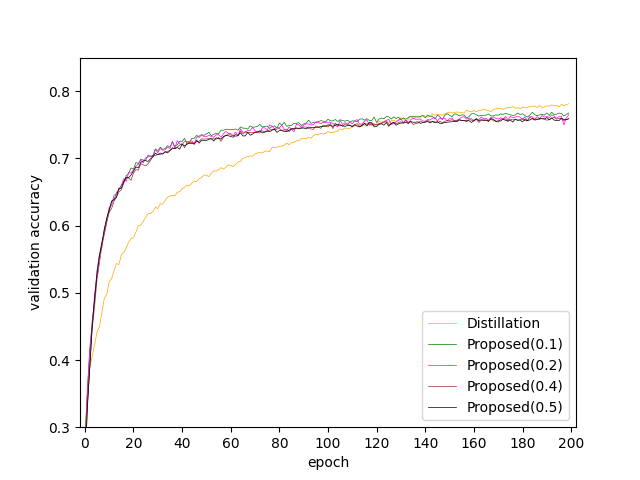
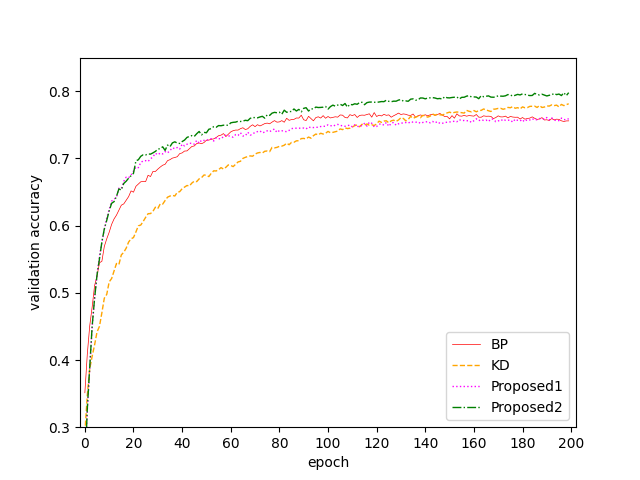
Experiment

diff --git a/result.py b/result.py
@@ -4,8 +4,8 @@ import matplotlib.pyplot as plt
 import torch
 
 def main():           
-    epochs = 200
-    model_type = 'normal'
+    epochs = 150
+    model_type = 'resnet'
     
     # setting iteration
     if model_type == 'resnet':
@@ -21,14 +21,14 @@ def main():
             cam10_iter   = 1
         elif epochs == 150: # これ
             teacher_iter = 10
-            student_iter = 0 #NOW adaptpc(0から4), synapse(5から9)
+            student_iter = 10
             st_iter      = 10
             cam00_iter   = 5
             cam01_iter   = 10
             cam02_iter   = 10
             cam03_iter   = 10
             cam04_iter   = 10
-            cam05_iter   = 1
+            cam05_iter   = 4 #NOW adaptpc(4,5) synapse(6,7) ice(8,9)
             cam10_iter   = 10
     elif model_type == 'normal':
         if epochs == 150:
@@ -117,15 +117,15 @@ def main():
     fig.patch.set_facecolor('white')
     plt.xlabel('epoch')
     plt.ylabel('validation accuracy')
-    # plt.plot(x, teacher_acc, label='Teacher',               linewidth=0.5, color='blue')
-    # plt.plot(x, student_acc, label='Student',               linewidth=0.5, color='red')
-    plt.plot(x, st_acc,      label='Distillation',      linewidth=0.5, color='orange')
+    plt.plot(x, teacher_acc, label='Teacher',               linewidth=0.5, color='blue')
+    plt.plot(x, student_acc, label='BP',               linewidth=0.5, color='red')
+    plt.plot(x, st_acc,      '--', label='KD',      linewidth=1.0, color='orange')
     plt.plot(x, cam01_acc,   label='Proposed(0.1)',     linewidth=0.5, color='green')
     plt.plot(x, cam02_acc,   label='Proposed(0.2)',     linewidth=0.5, color='magenta')
-    # plt.plot(x, cam03_acc,   label='Proposed(0.3)',    linewidth=0.5, color='black')
+    plt.plot(x, cam03_acc,   label='Proposed(0.3)',    linewidth=0.5, color='black')
     plt.plot(x, cam04_acc,   label='Proposed(0.4)',    linewidth=0.5, color='brown')
-    plt.plot(x, cam05_acc,   label='Proposed(0.5)',     linewidth=0.5, color='black')
-    # plt.plot(x, cam10_acc,   label='Proposed(rate=0.5->0)', linewidth=0.5, color='green')
+    plt.plot(x, cam05_acc,   ':', label='Proposed1',     linewidth=1.0, color='magenta')
+    plt.plot(x, cam10_acc,   '-.', label='Proposed2', linewidth=1.0, color='green')
     
     if model_type == 'normal':
         plt.xticks(np.arange(0, epochs+10, epochs/10))

diff --git a/train_cam.py b/train_cam.py
@@ -16,11 +16,11 @@ import pickle
 from src.utils import *
 
 def main():
-    for i in range(1, 10):
+    for i in range(4, 6):
         print(i)
-        model_type = 'normal'
-        cam_rate = '01' # default: '01', CAM-curriculum: '10'
-        epochs = 200
+        model_type = 'resnet'
+        cam_rate = '05' # default: '01', CAM-curriculum: '10'
+        epochs = 150
         batch_size = 128
         # torch.manual_seed(i)
         # np.random.seed(i)
@@ -162,7 +162,7 @@ def create_student_cam(model, images, labels, features, batch_size, device):
         
         for j in range(10):
             weight = model.fc.weight[j]
-            weight = weight.reshape(64, 1, 1) # (512, 1, 1)
+            weight = weight.reshape(512, 1, 1) # (64, 1, 1)
             cam = feature * weight
             cam = torch.sum(cam, axis=0)    
             attmap = torch.cat((attmap, cam), dim=0)
@@ -176,7 +176,7 @@ def create_teacher_cam(model, images, labels, features, batch_size, device):
    
         for j in range(10):
             weight = model.fc.weight[j]
-            weight = weight.reshape(256, 1, 1) # (1024, 1, 1)
+            weight = weight.reshape(1024, 1, 1) # (256, 1, 1)
             cam = feature * weight
             cam = torch.sum(cam, axis=0)
             attmap = torch.cat((attmap, cam), dim=0)
